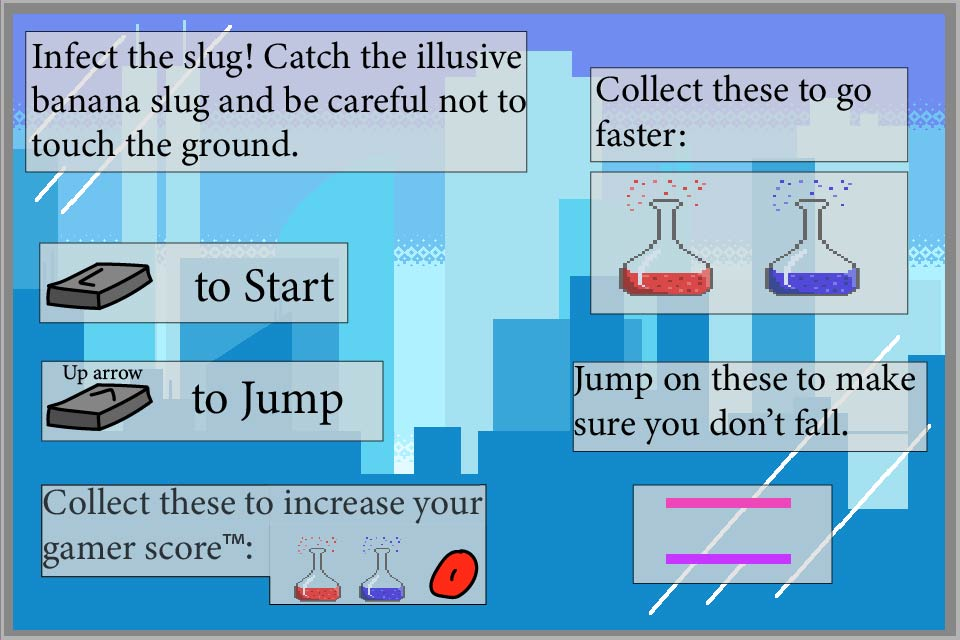
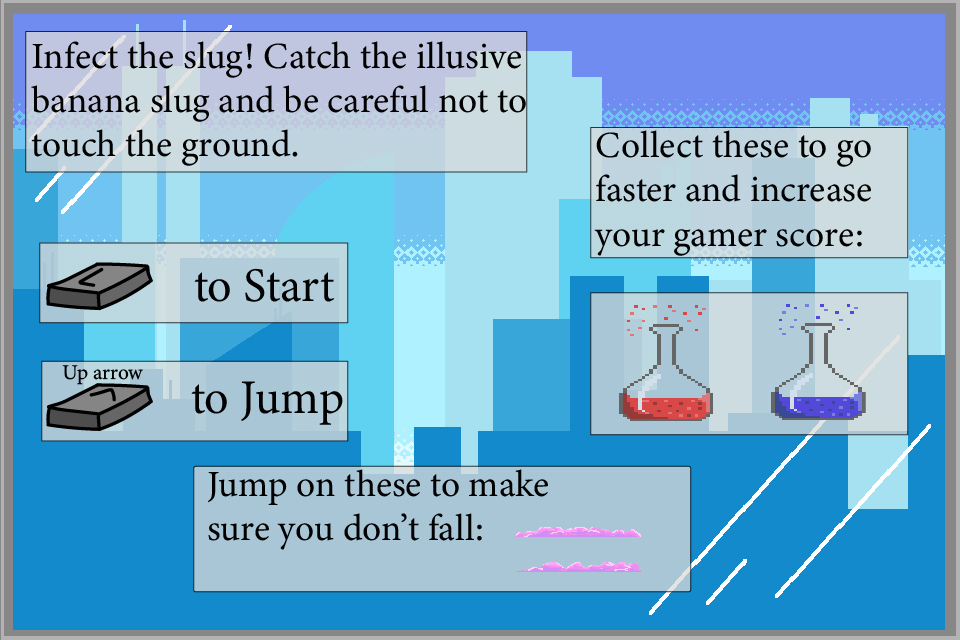
menu updated as well as the platform textures

diff --git a/src/scenes/Play.js b/src/scenes/Play.js
@@ -4,7 +4,7 @@ class Play extends Phaser.Scene {
     }
     /*
     
-    Platforms do not have physics hooked up yet but they ARE all in a ground named platformGroup and groundGroup
+    
     
     */
     preload() {
@@ -67,7 +67,7 @@ class Play extends Phaser.Scene {
         this.MAX_Y_VEL = 5000;
         this.DRAG = 600;
         this.MAX_JUMPS = 1;
-
+        this.raveLightBool = true;
         this.JUMP_VELOCITY = -700;
 
         // this.scene.physics.world.setBounds(980, 1280)
@@ -95,10 +95,21 @@ class Play extends Phaser.Scene {
         //this.cameras.main.setZoom(centerX);
         // this.game.camera.follow(this.virus);
         this.rave1st = this.add.tileSprite(0, 0, 1920, 1280, 'rave1st');
+
+
+       
+       
+
         this.rave2nd = this.add.tileSprite(0, 0, 1920, 1280, 'rave2nd');
 
         this.background1 = this.add.tileSprite(0, 0, 960, 640, 'background1').setOrigin(0, 0);
+this.raveLight = this.add.tileSprite(centerX-200,620, 250,480,'raveLight1').setOrigin(.5,1);
+        
+
+        this.raveLight1 = this.add.tileSprite(centerX+200,620, 250,480,'raveLight1').setOrigin(.5,1);
+
         this.backgroundFront = this.add.tileSprite(0, 0, 960, 640, 'backgroundFront').setOrigin(0, 0);
+ 
 
         this.highway = this.add.tileSprite(0, 0, 960, 640, 'highway').setOrigin(0, 0);
 
@@ -356,7 +367,8 @@ class Play extends Phaser.Scene {
         if (this.powerUpBlue.x < -10) {
             this.spawnBluePowerupBool = true;
         }
-
+        this.rave1st.tilePositionX += 0;
+        this.rave2nd.tilePositionX += 5;
         this.highway.tilePositionX += 2;
         this.background1.tilePositionX += 0.2;
         this.backgroundFront.tilePositionX += 0.5;
@@ -409,6 +421,43 @@ class Play extends Phaser.Scene {
             });
 
         }
+
+           
+
+
+        if(this.raveLight.angle <= -30){
+            this.raveLightBool = false;
+        }
+        if(this.raveLight.angle >= 30){
+            this.raveLightBool = true;
+        }
+        if(this.raveLightBool){
+
+            this.raveLight.angle -= .5;
+           
+        } else {
+            this.raveLight.angle += .5;
+            
+        }
+
+        if(this.raveLight.angle <= -30){
+            this.raveLightBool = false;
+        }
+        if(this.raveLight.angle >= 30){
+            this.raveLightBool = true;
+            
+        }
+        if(this.raveLightBool){
+
+            this.raveLight1.angle -= .5;
+            
+        } else {
+            this.raveLight1.angle += .5;
+            
+        }
+
+
+
 
     }
 

diff --git a/src/scenes/Menu.js b/src/scenes/Menu.js
@@ -2,7 +2,11 @@ class Menu extends Phaser.Scene {
     constructor() {
         super("menuScene");
     }
+/*
+We used a moving camera as well as used randomness to choose the platform textures.
 
+
+*/
     preload() {
 
         
@@ -19,7 +23,8 @@ class Menu extends Phaser.Scene {
         this.load.audio('playTransition', './assets/instructionsPlayTransition.wav');
         this.load.audio('bottleSound', './assets/bottleSound.wav');
         this.load.audio('virusBreathes', './assets/virusBreathes3.wav');
-
+        this.load.image('raveLight1', './assets/raveLight1.png');
+        this.load.image('raveLight2', './assets/raveLight2.png');
 
     }
 

diff --git a/src/prefabs/Virus.js b/src/prefabs/Virus.js
@@ -33,6 +33,7 @@ class Virus extends Phaser.Physics.Arcade.Sprite{     // use phasers sprite
             } 
 
             if (this.jumps > 0 && Phaser.Input.Keyboard.DownDuration(cursors.up, 150)) {
+                
                 this.body.velocity.y = this.JUMP_VELOCITY;
                 this.jumping = true;
 
